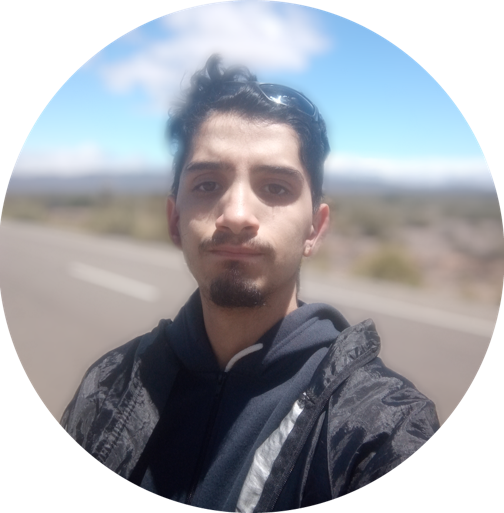
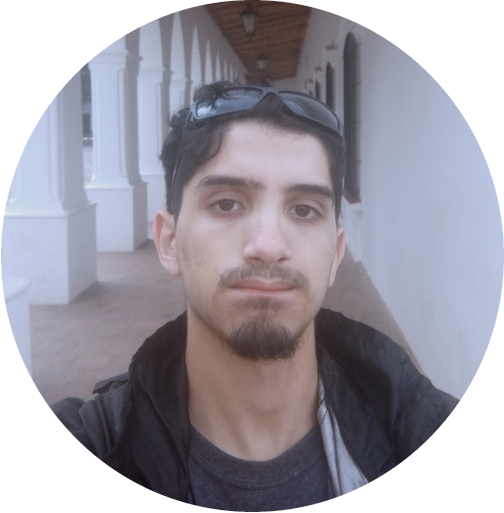
Update dev picture

diff --git a/src/app/[locale]/page.tsx b/src/app/[locale]/page.tsx
@@ -45,7 +45,7 @@ export default function Home() {
         <div className="h-20"/>
       
 
-        <section className="text-7xl sm:text-8xl">
+        <section className="text-8xl sm:text-9xl">
             <div className="flex justify-center">
                <div className="p-7 sm:ml-0 sm:p-0 flex">
                <text className=" text-left mt-10 bg-gradient-to-r from-white via-white to-pink-200 inline-block text-transparent bg-clip-text"
@@ -54,8 +54,8 @@ export default function Home() {
                   <div className="justify-left flex mt-10 mb-4 ">
                   <div className="z-99 transition-transform duration-300 transform hover:scale-105">
                   <Image src="/dev.png"
-                    width={80}
-                    height={80}
+                    width={180}
+                    height={180}
                     alt="dev picture"/> 
                   </div>
                   </div>
